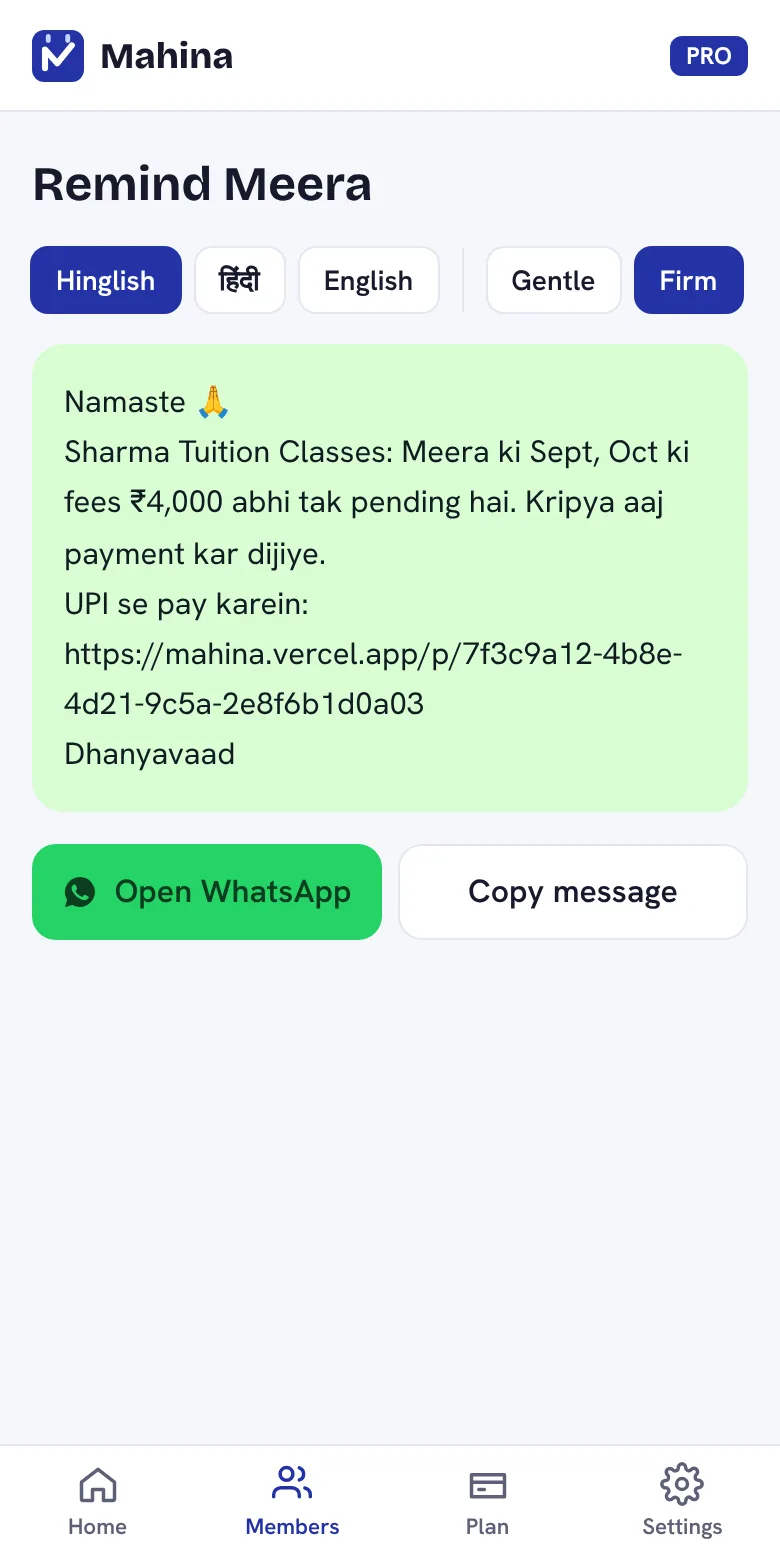
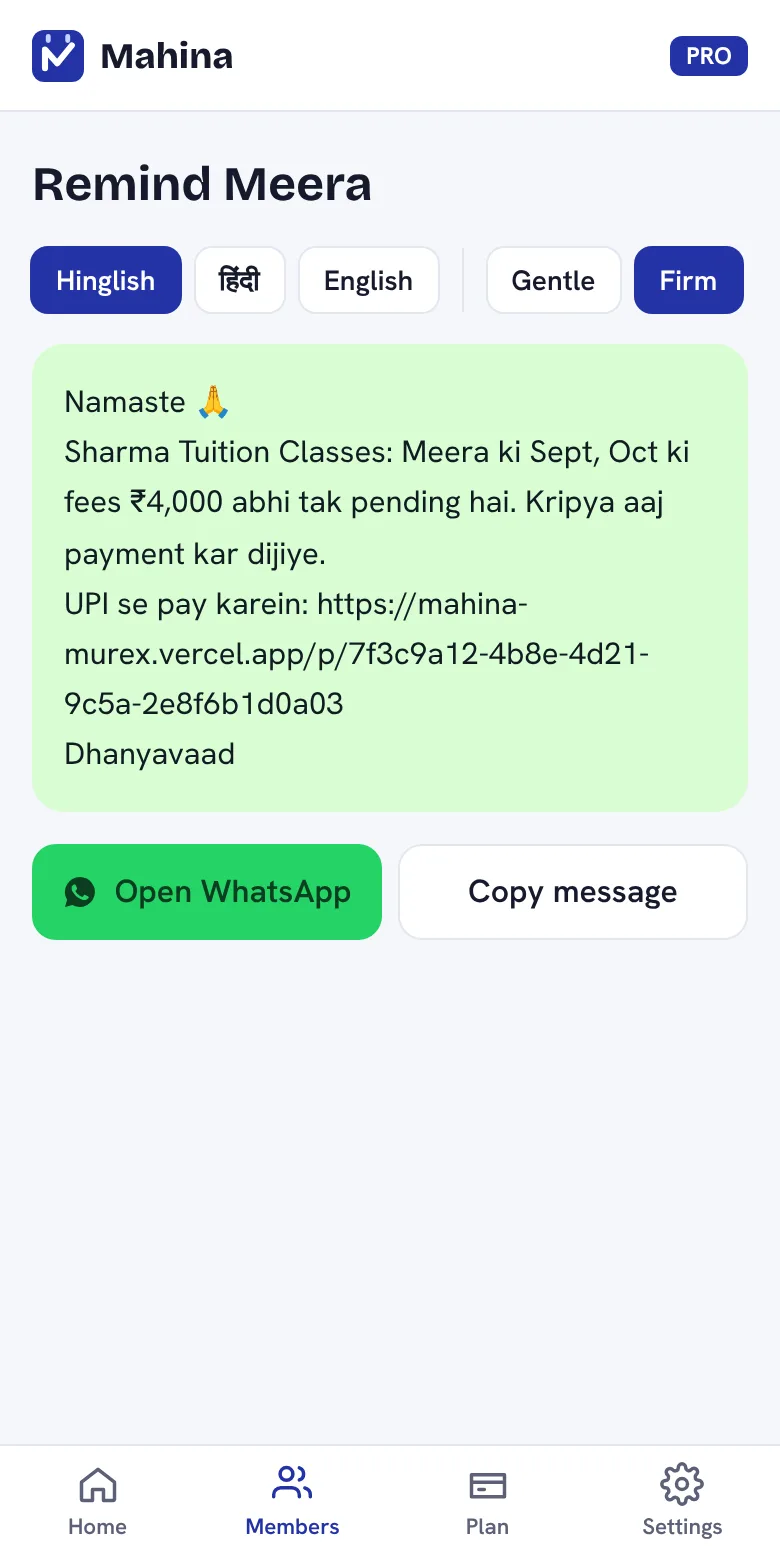
Use the live Vercel domain for canonical URLs and payment links
Claude-Session: https://claude.ai/code/session_01FV8rDL1hw2wDE4RRh8ofVD

Changed region(s): [[0.0923, 0.3692, 0.8615, 0.4615]]

diff --git a/lib/store.tsx b/lib/store.tsx
@@ -3,6 +3,7 @@ import { createContext, useCallback, useContext, useEffect, useMemo, useState } 
 import { supabaseBrowser } from "@/lib/supabase/client";
 import { computeStatus, type Member, type MemberStatus, type Payment } from "@/lib/dues";
 import type { Lang } from "@/lib/reminders";
+import { SITE } from "@/lib/site";
 
 export type Profile = {
   id: string;
@@ -132,7 +133,7 @@ export function FixtureProvider({ profile, members, payments, children }: { prof
   const value = useMemo<Store>(() => ({
     loading: false, error: null, profile, members, payments,
     statuses: members.map((m) => computeStatus(m, payments)),
-    isPro: planActive(profile), origin: "https://mahina.vercel.app",
+    isPro: planActive(profile), origin: SITE.url,
     reload: async () => {},
     addMembers: async () => null, updateMember: async () => null, deleteMember: async () => null,
     recordPayment: async () => ({ error: null }), deletePayment: async () => null, saveProfile: async () => null,

diff --git a/app/(marketing)/page.tsx b/app/(marketing)/page.tsx
@@ -221,7 +221,7 @@ function WhatsAppPreview() {
       <div className="space-y-3 p-4">
         <div className="ml-auto max-w-[85%] rounded-xl rounded-tr-sm bg-[#d9fdd3] p-3 text-[0.95rem] leading-snug text-[#111b21] shadow-sm">
           Namaste 🙏<br />Sharma Tuition Classes: Diya ki Oct ki fees ₹1,500 due hai.<br />Ek click mein UPI se pay karein:
-          <span className="block text-[#027eb5] underline">mahina.vercel.app/p/7f3c…</span>
+          <span className="block text-[#027eb5] underline">{SITE.url.replace("https://", "")}/p/7f3c…</span>
           Agar payment ho gaya hai toh ignore karein. Thank you!
           <span className="mt-1 block text-right text-[0.7rem] text-[#667781]">9:02 am ✓✓</span>
         </div>

diff --git a/lib/site.ts b/lib/site.ts
@@ -2,7 +2,7 @@ export const SITE = {
   name: "Mahina",
   byline: "by SlotRecover",
   fullName: "Mahina by SlotRecover",
-  url: (process.env.NEXT_PUBLIC_SITE_URL || "https://mahina.vercel.app").replace(/\/$/, ""),
+  url: (process.env.NEXT_PUBLIC_SITE_URL || "https://mahina-murex.vercel.app").replace(/\/$/, ""),
   tagline: "Monthly fee collection on WhatsApp and UPI",
   description:
     "Mahina helps tuition teachers, tiffin services, gyms, yoga and music classes collect monthly fees on time. Send WhatsApp fee reminders with a UPI payment link, track who has paid, and share receipts. Free for up to 15 members.",

diff --git a/app/(marketing)/for/[slug]/page.tsx b/app/(marketing)/for/[slug]/page.tsx
@@ -28,7 +28,7 @@ export default async function SegmentPage({ params }: { params: Promise<{ slug: 
   if (!s) notFound();
   const sample = reminderText("hinglish", {
     name: s.example[1].name, business: "Your business", amount: `₹${s.example[1].fee.toLocaleString("en-IN")}`, months: "Oct",
-    link: "mahina.vercel.app/p/…",
+    link: `${SITE.url.replace("https://", "")}/p/…`,
   });
   const others = SEGMENTS.filter((o) => o.slug !== s.slug).slice(0, 5);
 
